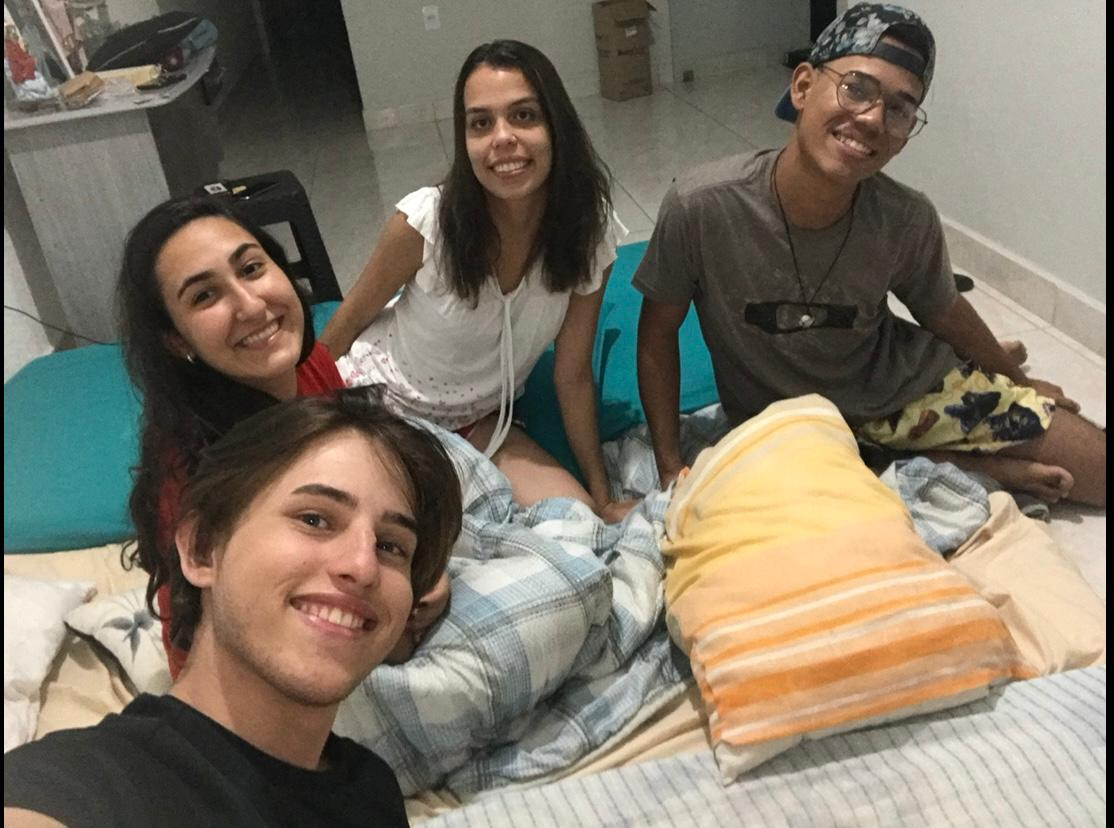
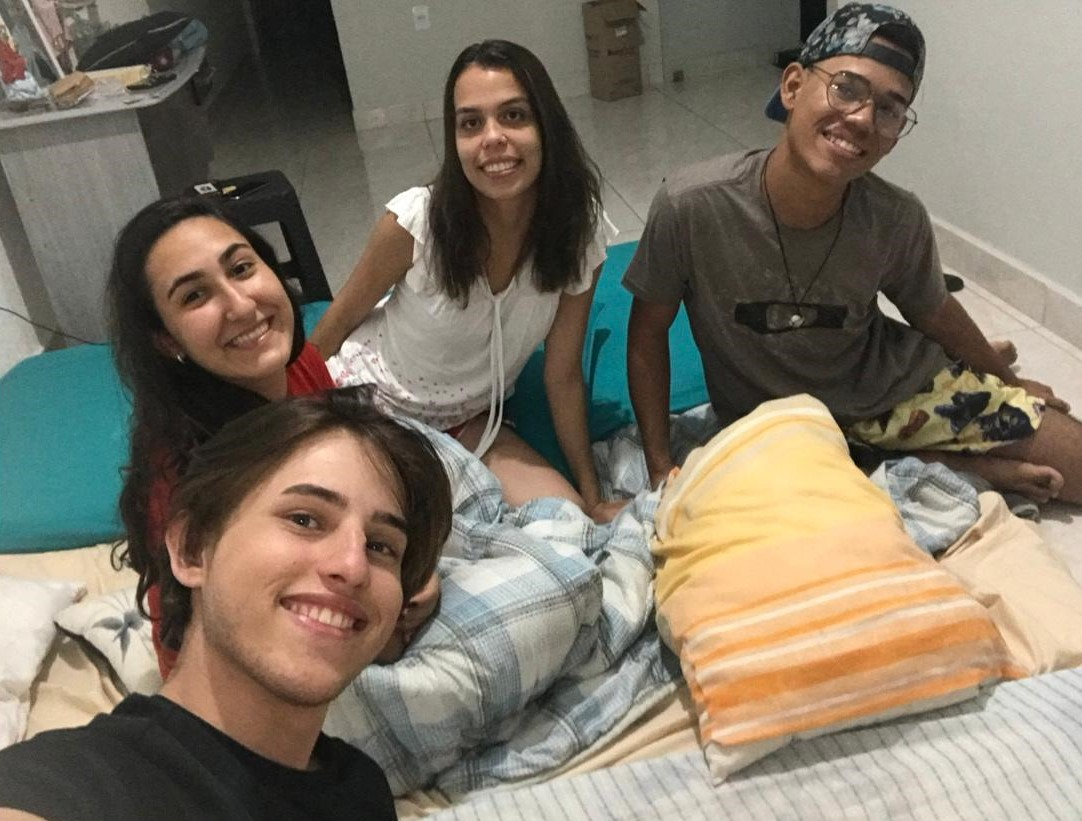
tamanho fotos

Changed region(s): [[0.0, 0.0, 1.0, 1.0], [0.2745, 0.4872, 0.3355, 0.5481], [0.183, 0.2132, 0.2135, 0.2741]]

diff --git a/momentos/index.md b/momentos/index.md
@@ -11,7 +11,7 @@ comments: false
 <figure class = "half">
     <img src="1.jpeg" style = "height: 350px; width: 280px;">
     <img src="2.jpeg" style = "height: 350px; width: 310px;">
-    <img src="5.jpeg" style = "height: 300px; width: 350px;">
+    <img src="5.jpeg" style = "height: 350px; width: 350px;">
     <img src="3.jpeg" style = "height: 220px; width: 340px;">
     <img src="4.jpeg" style = "height: 220px; width: 340px;">
     <img src="6.jpeg" style = "height: 220px; width: 340px;">
